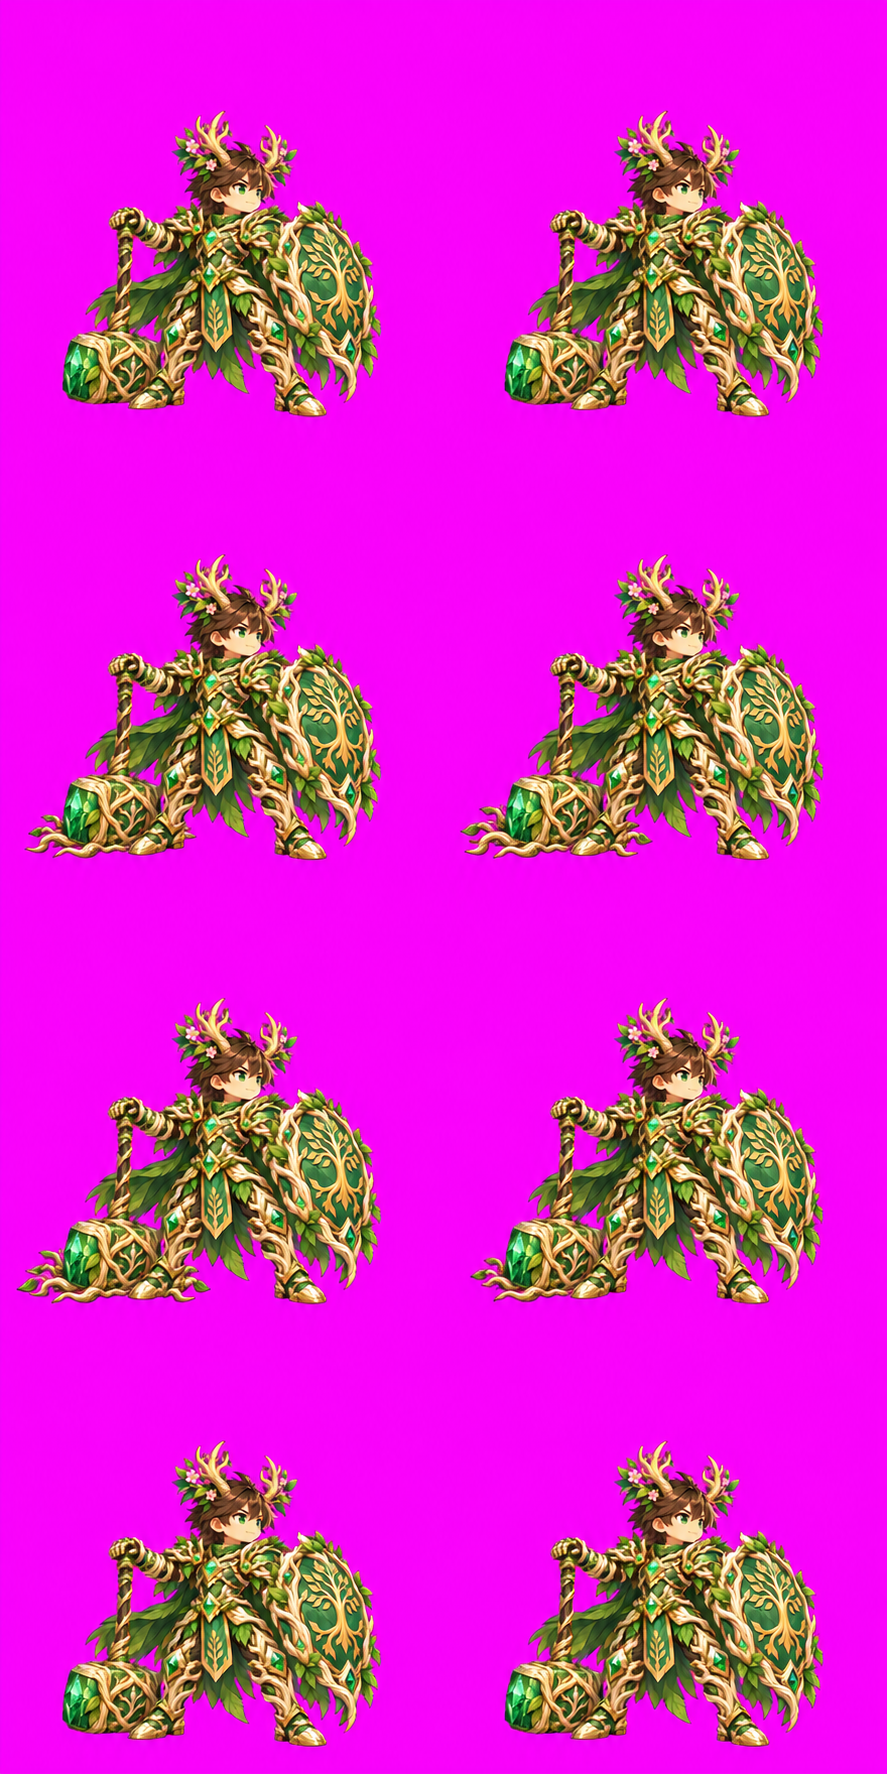
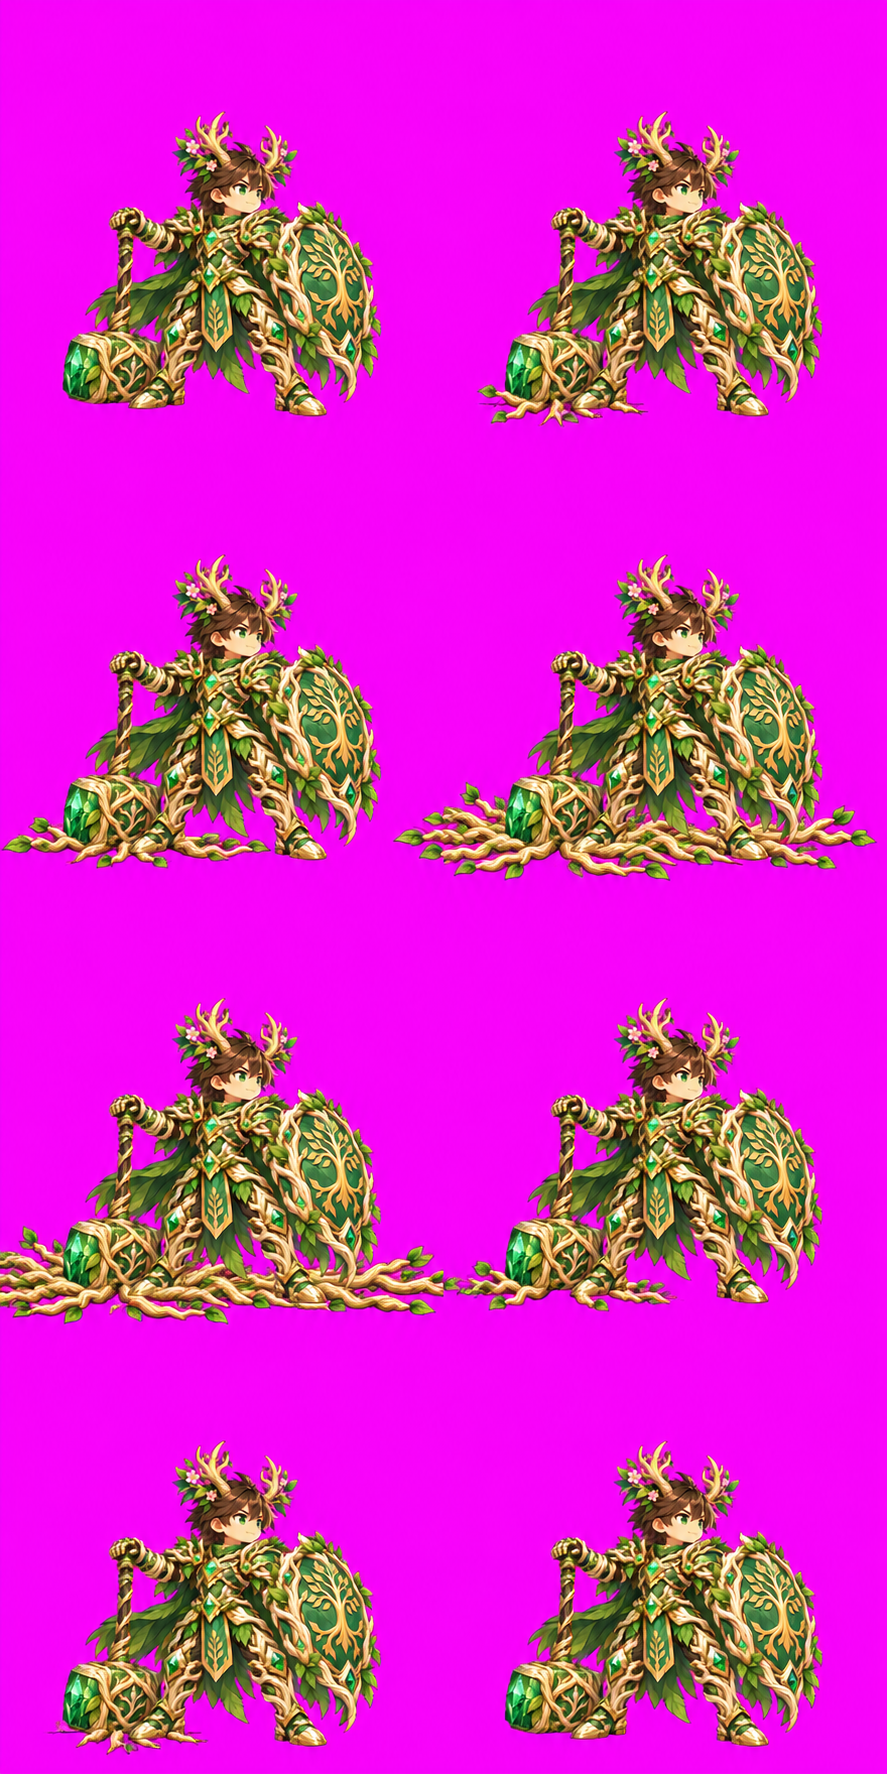
art(nori): astra-high redos: hammer taps and neck roll with a steady face, golden roots that clearly spread across the ground, a bark cocoon his own height

diff --git a/assets/heroes/forms/earth/tools/cut.py b/assets/heroes/forms/earth/tools/cut.py
@@ -1,0 +1,66 @@
+"""cut.py <dir> <name> [--pad=1.25] [--cell=384]
+Cut a Codex 2x4 sheet into its 8 frames by connected parts instead of a fixed grid: Codex's rows are not
+always equal and wide roots or a raised hammer can run past the nominal cell line. Every connected part of
+the keyed sheet goes to the frame cell holding most of its pixels (loose leaves by centre), and each frame
+is put on a canvas `pad` times the nominal cell (centred on its nominal cell), so nothing is cut. Keying is
+the same as fidget.py key_cells. Writes <work>/cells/idle-N.png (cell x cell) and removes cells-orig.
+Placement only: nothing drawn, warped or stretched (one uniform resize like key_cells)."""
+import shutil, sys
+from pathlib import Path
+import numpy as np
+from PIL import Image
+from scipy import ndimage
+
+ROOT = Path("D:/Project/Gemwoven")
+d, name, *flags = sys.argv[1:]
+pad = next((float(f.split("=")[1]) for f in flags if f.startswith("--pad=")), 1.25)
+cell = next((int(f.split("=")[1]) for f in flags if f.startswith("--cell=")), 384)
+W = ROOT / ".build-cache/fidgets" / d.replace("/", "_") / name
+green = (W / "green").exists()
+sheet = np.asarray(Image.open(W / "raw.png").convert("RGB"), dtype=np.float32)
+H, Wd = sheet.shape[:2]; h, w = H // 4, Wd // 2
+r, g, b = sheet[..., 0], sheet[..., 1], sheet[..., 2]
+key = g - np.maximum(r, b) if green else np.minimum(r, b) - g
+alpha = np.clip(1 - (key - 60) / 90, 0, 1)
+spill = np.clip(key / 255, 0, 1)
+c = sheet.copy()
+if green:
+    c[..., 1] = np.where(key > 0, np.maximum(r, b) + (g - np.maximum(r, b)) * (1 - spill), g)
+else:
+    c[..., 0] = np.where(key > 0, np.minimum(r, g + (r - g) * (1 - spill)), r)
+    c[..., 2] = np.where(key > 0, np.minimum(b, g + (b - g) * (1 - spill)), b)
+despill = next((float(f.split("=")[1]) for f in flags if f.startswith("--despill-below=")), None)
+if despill is not None and not green:
+    # magenta caught between thin roots: below this share of each row band, a pixel whose blue and red both
+    # exceed green is key spill (the design has no pink/violet near the ground here): pull it to neutral
+    rows = (np.arange(H) % h) / h >= despill
+    sus = rows[:, None] & (c[..., 2] > c[..., 1]) & (c[..., 0] > c[..., 1])
+    c[..., 2] = np.where(sus, c[..., 1], c[..., 2]); c[..., 0] = np.where(sus, c[..., 1] + (c[..., 0] - c[..., 1]) * .5, c[..., 0])
+    alpha = np.where(sus & (key > 20), alpha * .5, alpha)
+labels, n = ndimage.label(ndimage.binary_dilation(alpha > .02, iterations=2))
+owner = np.zeros(n + 1, int)
+grid = (np.arange(H)[:, None] // h).clip(0, 3) * 2 + (np.arange(Wd)[None, :] // w).clip(0, 1)
+for lab in range(1, n + 1):
+    m = labels == lab
+    cnt = np.bincount(grid[m], minlength=8)
+    owner[lab] = cnt.argmax() if cnt.max() >= .8 * cnt.sum() else -2   # two frames' parts touching: split on the grid
+fr = owner[labels]; fr[labels == 0] = -1
+fr = np.where(fr == -2, grid, fr)
+side = int(round(max(h, w) * pad))
+shutil.rmtree(W / "cells-orig", ignore_errors=True)
+(W / "cells").mkdir(exist_ok=True)
+rgba = np.concatenate([c, alpha[..., None] * 255], -1)
+for i in range(8):
+    cy, cx = (i // 2) * h + h // 2, (i % 2) * w + w // 2
+    out = np.zeros((side, side, 4), np.float32)
+    y0, x0 = cy - side // 2, cx - side // 2
+    ys, xs = max(0, y0), max(0, x0); ye, xe = min(H, y0 + side), min(Wd, x0 + side)
+    part = rgba[ys:ye, xs:xe].copy(); mine = fr[ys:ye, xs:xe] == i
+    part[..., 3] *= mine
+    out[ys - y0:ye - y0, xs - x0:xe - x0] = part
+    edge = out[..., 3] > 128
+    hit = [edge[:2].any(), edge[-2:].any(), edge[:, :2].any(), edge[:, -2:].any()]
+    if any(hit):
+        print("frame", i + 1, "still touches the padded canvas edge", hit)
+    Image.fromarray(out.clip(0, 255).astype("uint8"), "RGBA").resize((cell, cell), Image.Resampling.LANCZOS).save(W / f"cells/idle-{i + 1}.png")
+print("cut", name, "into 8 cells, pad", pad, "components", n)

diff --git a/assets/heroes/forms/earth/tools/despill.py b/assets/heroes/forms/earth/tools/despill.py
@@ -1,0 +1,16 @@
+"""despill.py <sheet.webp> <frames e.g. 3,4>: in the named frames (which hold no pink/violet design colour)
+pull leftover magenta key spill to neutral (blue and red down to green), fading very spilled edge pixels."""
+import sys, numpy as np
+from PIL import Image
+p, frames = sys.argv[1], [int(v) for v in sys.argv[2].split(",")]
+a = np.asarray(Image.open(p).convert("RGBA"), dtype=np.float32); c = a.shape[1] // 2
+for i in frames:
+    y, x = ((i - 1) // 2) * c, ((i - 1) % 2) * c
+    f = a[y:y + c, x:x + c]
+    r, g, b = f[..., 0], f[..., 1], f[..., 2]
+    sus = (b > g + 8) & (r > g + 8)
+    k = np.clip((np.minimum(r, b) - g) / 120, 0, 1)
+    f[..., 3] = np.where(sus, f[..., 3] * (1 - .6 * k), f[..., 3])
+    f[..., 0] = np.where(sus, g + (r - g) * .45, r); f[..., 2] = np.where(sus, g, b)
+    print("frame", i, "despilled", int(sus.sum()), "px")
+Image.fromarray(a.clip(0, 255).astype("uint8"), "RGBA").save(p, lossless=True, method=6)

diff --git a/assets/heroes/forms/earth/tools/aproc.py b/assets/heroes/forms/earth/tools/aproc.py
@@ -36,7 +36,9 @@ def cost(F, dx, dy, s):
     return np.abs(pm(m) - pm(R))[mask].mean() + np.abs(m[..., 3] - R[..., 3])[mask].mean()
 for i in range(1, 9):
     F = load(i)
-    best = min((cost(F, dx, dy, 1.0), dx, dy, 1.0) for dy in range(-48, 49, 4) for dx in range(-24, 25, 4))
+    fy = np.where(F[..., 3].max(1) > .5)[0].max(); ry = np.where(R[..., 3].max(1) > .5)[0].max()
+    g0 = int(ry - fy)   # first guess: soles on the reference's soles
+    best = min(min((cost(F, dx, dy, 1.0), dx, dy, 1.0) for dy in range(c - 24, c + 25, 4) for dx in range(-24, 25, 4)) for c in (g0, 0))
     for step in (2, 1):
         best = min((cost(F, dx, dy, s), dx, dy, s) for s in [best[3] + k * .01 * step for k in (-2, -1, 0, 1, 2)]
                    for dy in range(best[2] - 2 * step, best[2] + 2 * step + 1, step) for dx in range(best[1] - 2 * step, best[1] + 2 * step + 1, step))

diff --git a/assets/heroes/forms/earth/tools/lock.py b/assets/heroes/forms/earth/tools/lock.py
@@ -26,6 +26,11 @@ w[y0:y1, x0:x1] = 1
 for k in range(feather):   # soft lower edge only: the shoulders below breathe
     yy = y1 - feather + k
     w[yy, x0:x1] = 1 - (k + 1) / (feather + 1)
+if "--shape" in flags:   # only the master's own silhouette inside the box (something may pass behind the head)
+    from scipy import ndimage
+    sil = ndimage.binary_erosion(m[..., 3] > .5, iterations=1).astype(np.float32)
+    sil = np.asarray(Image.fromarray((sil * 255).astype("uint8")).filter(__import__("PIL.ImageFilter", fromlist=["x"]).GaussianBlur(1.2)), np.float32) / 255
+    w = w * sil
 w = w[..., None]
 shutil.copy2(sheet_p, str(sheet_p) + ".bak")
 arr = np.asarray(sheet, dtype=np.float32) / 255
